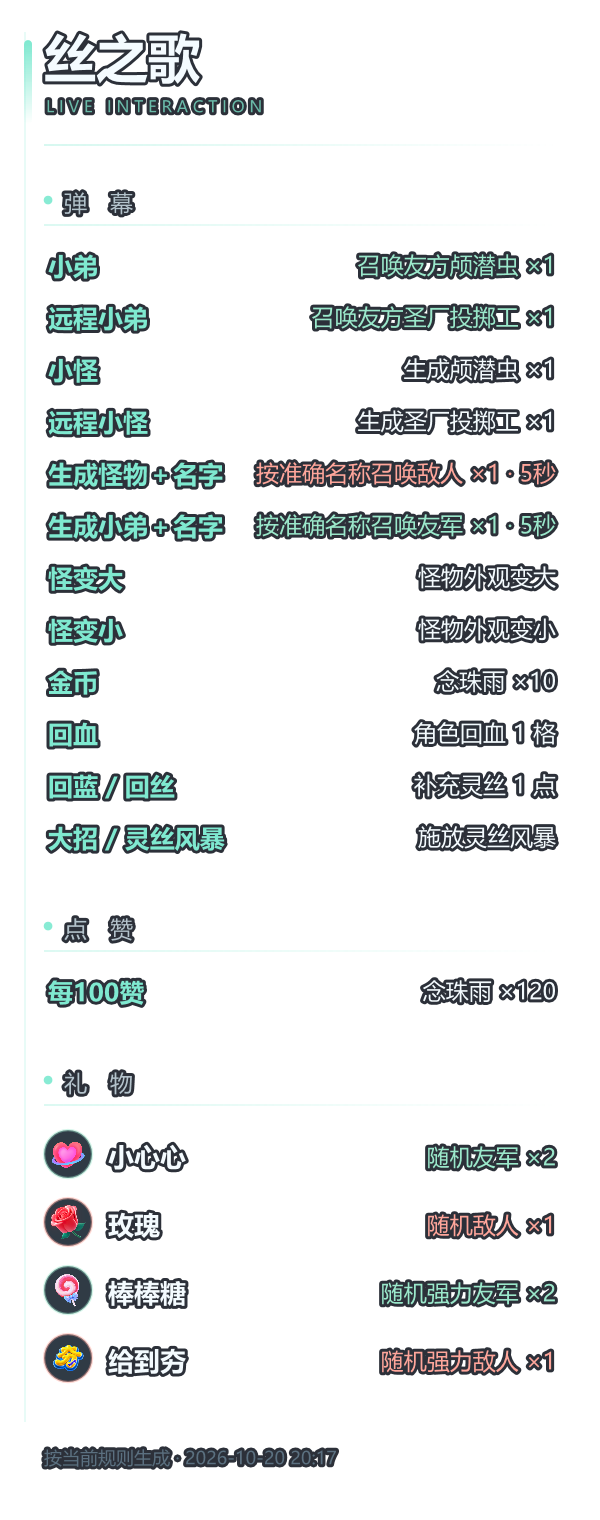
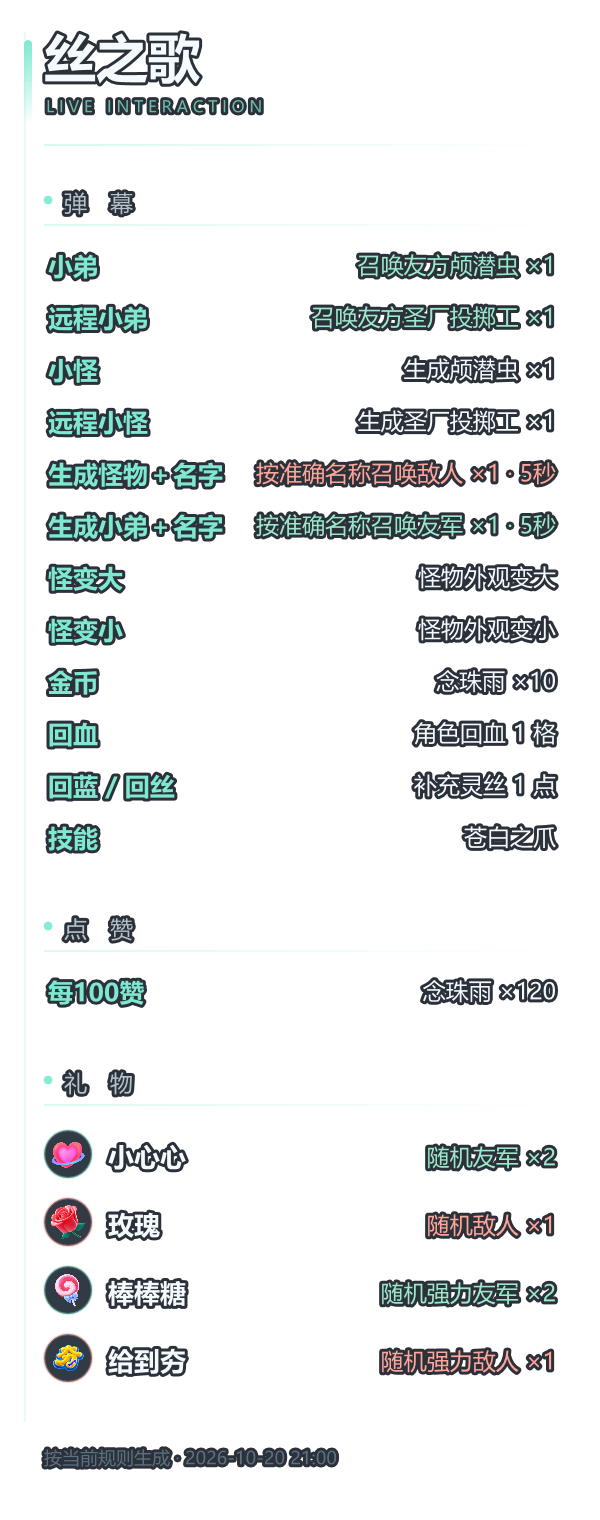
Release 0.7.8

Changed region(s): [[0.06, 0.5257, 0.39, 0.5875], [0.69, 0.5257, 0.93, 0.5875], [0.54, 0.9586, 0.57, 0.9895]]

diff --git a/tests/LiveInteract.Tests/DefaultProfileTests.cs b/tests/LiveInteract.Tests/DefaultProfileTests.cs
@@ -16,9 +16,19 @@ public sealed class DefaultProfileTests
     [InlineData("小怪","spawn.bone-goomba")][InlineData("远程小怪","spawn.understore-thrower")]
     [InlineData("回血","health.add")][InlineData("回蓝","silk.add")][InlineData("回丝","silk.add")]
     [InlineData("怪变大","enemy.growStack")][InlineData("怪变小","enemy.shrinkStack")]
-    [InlineData("金币","currency.rain")][InlineData("大招","cast.threadstorm")][InlineData("灵丝风暴","cast.threadstorm")]
+    [InlineData("金币","currency.rain")][InlineData("技能","cast.palenails")]
     public void ChatCommandsMapToApprovedEffects(string text,string action)
     {var m=Assert.Single(Evaluate(new(){Id="c",Type=LiveEventType.Chat,Text=text}));Assert.Equal(action,m.Rule.Root.ActionId);}
+
+    [Fact] public void SkillCommandUsesPaleClawAndOldStormKeywordsAreGone()
+    {
+        // 技能口令现在是苍白之爪；旧的大招 / 灵丝风暴关键词不再命中。
+        Assert.Empty(Evaluate(new(){Id="a",Type=LiveEventType.Chat,Text="大招"}));
+        Assert.Empty(Evaluate(new(){Id="b",Type=LiveEventType.Chat,Text="灵丝风暴"}));
+        Assert.NotNull(SkillCatalog.Find("cast.palenails"));
+        Assert.Equal("苍白之爪",SkillCatalog.Find("cast.palenails")!.Name);
+        Assert.Contains(ActionCatalog.All,a=>a.Id=="cast.palenails");
+    }
 
     [Fact] public void LongKeywordsWinOverTheirSubstring()
     {

diff --git a/src/LiveInteract.Desktop/MainWindow.xaml.cs b/src/LiveInteract.Desktop/MainWindow.xaml.cs
@@ -498,7 +498,7 @@ public partial class MainWindow : Window
         {
             File.WriteAllText(dialog.FileName, JsonConvert.SerializeObject(new
             {
-                Version = "0.7.7", At = DateTimeOffset.Now, Game = new { environment.GameFound, environment.LoaderFound, environment.ModEnabled, environment.ModDisabled, environment.Running, environment.BuildId },
+                Version = "0.7.8", At = DateTimeOffset.Now, Game = new { environment.GameFound, environment.LoaderFound, environment.ModEnabled, environment.ModDisabled, environment.Running, environment.BuildId },
                 Bridge = new { runtime.Game.IsConnected, runtime.Game.Status?.GameVersion, runtime.Game.Status?.Scene, runtime.Game.Status?.CanAct, runtime.Game.Status?.Diagnostics },
                 Counts = new { runtime.Received, runtime.Simulated, runtime.Completed, runtime.Failed },
                 RuleCount = profile.Rules.Count, EnabledRules = profile.Rules.Count(item => item.Enabled),

diff --git a/src/LiveInteract.Silksong/GameActions.cs b/src/LiveInteract.Silksong/GameActions.cs
@@ -634,7 +634,7 @@ internal sealed class GameActions
         var data = ExistingPlayerData(); // 只读已有数据，禁止为心跳创建单例。
         var status = new GameStatus
         {
-            Scene = SceneManager.GetActiveScene().name, GameVersion = Application.version, ModVersion = "0.7.7", CanAct = CanAct,
+            Scene = SceneManager.GetActiveScene().name, GameVersion = Application.version, ModVersion = "0.7.8", CanAct = CanAct,
             Health = data?.health ?? 0, BlueHealth = data?.healthBlue ?? 0, ShieldPoints = shieldPoints, CompanionCount = CompanionCount, PickupCount = pickups.Count, SizeLayerCount = appearanceStacks.Where(a => a != null).Sum(a => a.Count), Silk = data?.silk ?? 0,
             ActiveEffects = effects.Describe(Time.realtimeSinceStartup).ToList(),
             SpawnableMonsterIds = monsterAssets.AvailableIds,

diff --git a/src/LiveInteract.Silksong/Plugin.cs b/src/LiveInteract.Silksong/Plugin.cs
@@ -15,7 +15,7 @@ using LiveInteract.Contracts;
 namespace LiveInteract.Silksong;
 
 /// <summary>主线程执行、可核对回执和简洁的渐隐触发提示。</summary>
-[BepInPlugin("cn.liveinteract.silksong", "直播互动工具箱", "0.7.7")]
+[BepInPlugin("cn.liveinteract.silksong", "直播互动工具箱", "0.7.8")]
 [BepInProcess("Hollow Knight Silksong.exe")]
 public sealed class Plugin : BaseUnityPlugin
 {
@@ -68,7 +68,7 @@ public sealed class Plugin : BaseUnityPlugin
         }
         Application.logMessageReceived += OnUnityMessage;
         menuInfoUntil = Time.realtimeSinceStartup + 6;
-        Logger.LogInfo("直播互动 Mod 0.7.7 已加载；待游戏与直播实际验证。");
+        Logger.LogInfo("直播互动 Mod 0.7.8 已加载；待游戏与直播实际验证。");
     }
 
     private void Update()

diff --git a/src/LiveInteract.Desktop/PosterRenderer.cs b/src/LiveInteract.Desktop/PosterRenderer.cs
@@ -93,6 +93,7 @@ internal static class PosterRenderer
         var cut = effect.IndexOf(" · ", StringComparison.Ordinal);
         if (cut > 0) { effect = effect[..cut]; }
         effect = effect.Replace("原生", "");
+        if (effect.StartsWith("施放", StringComparison.Ordinal)) { effect = effect[2..]; } // 丝技只显示技能名
         effect = System.Text.RegularExpressions.Regex.Replace(effect, "（[^）]*）", "").Trim();
         effect = System.Text.RegularExpressions.Regex.Replace(effect, @"\s*\d+\.\d+\s*$", "").Trim();
         return effect;

diff --git a/profiles/使用说明.md b/profiles/使用说明.md
@@ -6,7 +6,7 @@
 
 达到“本工具生成敌人同时存在上限”后，新单位进入队列，场上有单位被击败就自动补生成；排队期间游戏内左下角显示“谁 · 效果 · 待生成”。
 
-弹幕：小弟→友方颅潜虫1只；远程小弟→友方圣厂投掷工1只；小怪/远程小怪→对应敌方各1只；生成怪物＋准确名称/生成小弟＋准确名称→对应阵营1只、5秒后消失；怪变大/怪变小→最近敌人永久外观叠层（不改碰撞）；回血→1格，满血时改为临时额外血量上限＋1（每次刷新30秒，最多＋5，切场景/死亡/紧急停止收回）；回蓝/回丝→1点；金币→10颗原作可拾取念珠；大招/灵丝风暴→原作灵丝风暴。
+弹幕：小弟→友方颅潜虫1只；远程小弟→友方圣厂投掷工1只；小怪/远程小怪→对应敌方各1只；生成怪物＋准确名称/生成小弟＋准确名称→对应阵营1只、5秒后消失；怪变大/怪变小→最近敌人永久外观叠层（不改碰撞）；回血→1格，满血时改为临时额外血量上限＋1（每次刷新30秒，最多＋5，切场景/死亡/紧急停止收回）；回蓝/回丝→1点；金币→10颗原作可拾取念珠；技能→苍白之爪。
 
 点赞仅保留：每100赞→120颗超大原生念珠雨。没有20赞回血、50赞回蓝等旧点赞规则。
 

diff --git a/CHANGELOG.md b/CHANGELOG.md
@@ -1,5 +1,9 @@
 # 版本记录
 
+## 0.7.8 — 2026-10-20（本地预发布，未远程发布）
+
+弹幕口令「大招 / 灵丝风暴」改为「技能」→ 苍白之爪（原生丝技入口 BOSS NEEDLE）。直播图里丝技只显示技能名，不再带「施放」前缀；旧关键词不再命中。
+
 ## 0.7.7 — 2026-10-20（本地预发布，未远程发布）
 
 新增自动更新：启动 2.5 秒后自动查询 GitHub 上的更新清单，发现新版本弹窗询问，确认后下载、校验 SHA-256、解压，然后由临时副本在旧进程退出后替换程序并自动重开；“画面与设置”里也能手动点“检查更新”，可关闭启动自动检查。
